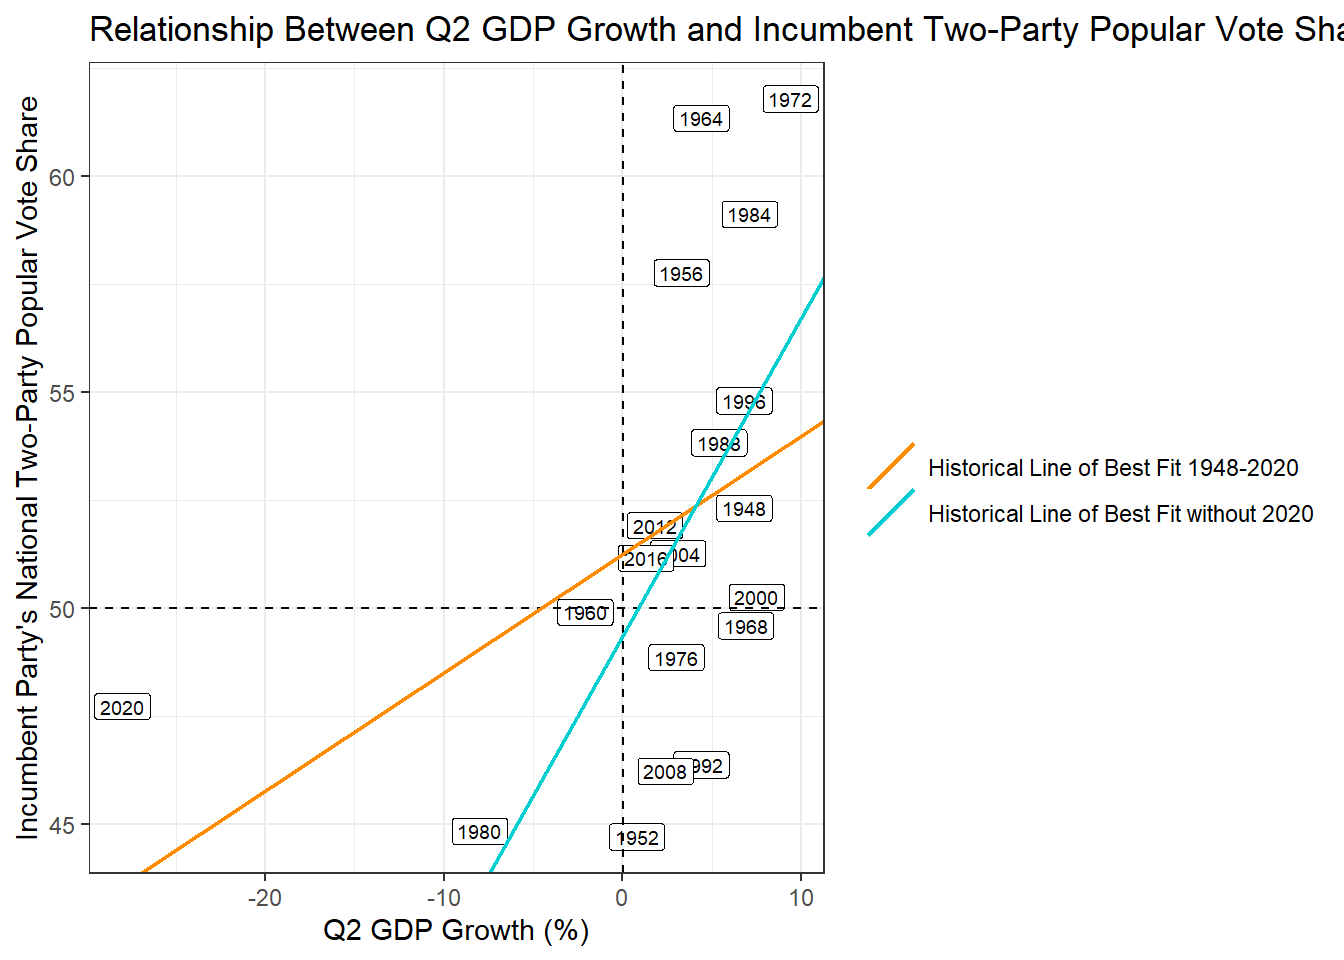
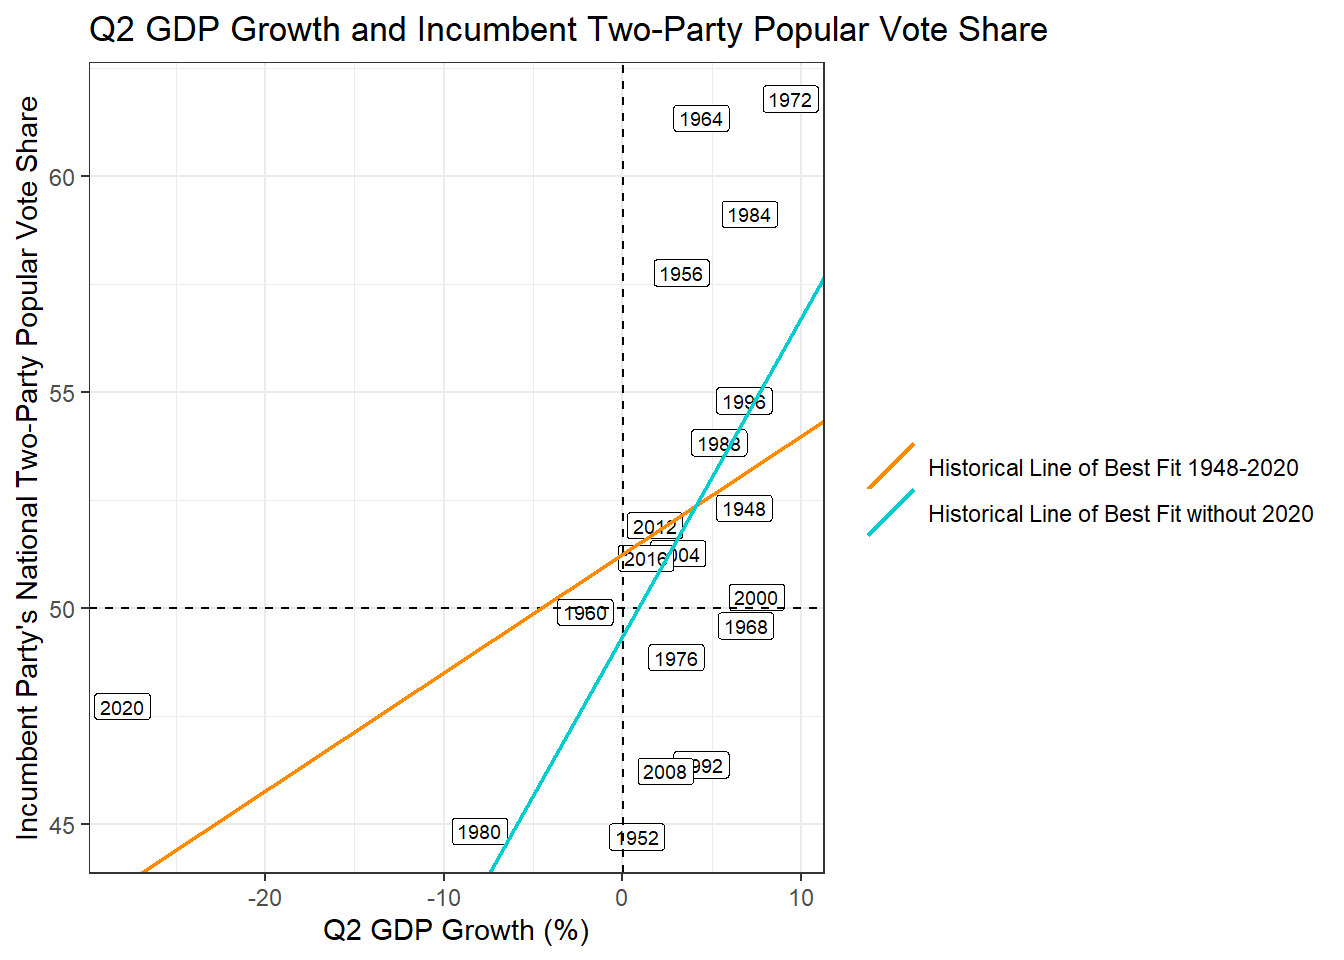
formatting changes

Changed region(s): [[0.0625, 0.0, 1.0, 0.0625]]

diff --git a/public/post/2024/09/13/blog-post-2-the-economy/index.html b/public/post/2024/09/13/blog-post-2-the-economy/index.html
@@ -83,10 +83,8 @@
 <h2 id="the-relationship-fades-in-the-21st-century">The Relationship Fades in the 21st Century</h2>
 <p>Though the above prediction model works somewhat well, I do want to take a moment to highlight a trend I saw while visually examining the economic correlations in class. The trends we see historically are not the same as the trends in the 21st century.</p>
 <img src="https://example.org/post/2024/09/13/blog-post-2-the-economy/index_files/figure-html/unnamed-chunk-1-1.png" width="672" />
-If we look at only elections that have occurred in the 21st century, the relationship between GDP growth and incumbent vote share is inconclusive. The two lines of fit represent only elections post-2000, one with and one without the previously identified outlier of 2020. With or without 2020, a one percentage point change in GDP growth results in much smaller impacts on incumbent vote share than the broader historical model. 
-<p>We can look too at the correlations between Q2 GDP growth and incumbent party vote share, as well as the lines of best fit for 21st century elections with and without 2020.</p>
-<pre><code class="language-r">fitpost2000
-</code></pre>
+<p>If we look at only elections that have occurred in the 21st century, the relationship between GDP growth and incumbent vote share is inconclusive. The two lines of fit represent only elections post-2000, one with and one without the previously identified outlier of 2020. With or without 2020, a one percentage point change in GDP growth results in much smaller impacts on incumbent vote share than the broader historical model.</p>
+<p>We can look too at the lines of best fit for 21st century elections with and without 2020.</p>
 <pre><code>## 
 ## Call:
 ## lm(formula = pv2p ~ GDP_growth_quarterly, data = incumbent_econ_post2000)
@@ -94,8 +92,6 @@ If we look at only elections that have occurred in the 21st century, the relatio
 ## Coefficients:
 ##          (Intercept)  GDP_growth_quarterly  
 ##             49.90911               0.07468
-</code></pre>
-<pre><code class="language-r">fitpostno2020
 </code></pre>
 <pre><code>## 
 ## Call:
@@ -109,55 +105,9 @@ If we look at only elections that have occurred in the 21st century, the relatio
 <p>There are some serious issues with training a model on six (five) data points, including model over-fitting, but I did want to draw attention to this trend in the data. I hypothesize that, as partisanship has become an exceedingly salient pillar of American society, the average voter may be voting along party lines more than in their own economic self-interest. I look forward to exploring that hypothesis further as I progress through this class.</p>
 <h2 id="the-choice-not-to-add-more-predictive-variables">The Choice Not to Add More Predictive Variables</h2>
 <p>One method we could consider to make improve our economic model of vote share is to add more economic predictive variables to get a better picture of the economy. However, if different economic variables are highly correlated with one another, we may run into issues of co-linearity which interferes with model performance. I tested several possible predictive economic variables for co-linearity and found that annual GDP is strongly correlated with RDPI and adjusted closing stock prices, so those measures will be excluded. On the other hand, Q2 GDP growth and Q2 RDPI growth are very uncorrelated, as are annual GDP and unemployment and Q2 GDP growth and annual GDP.</p>
-<pre><code>## [1] 0.01976475
-</code></pre>
-<pre><code>## [1] 0.9859192
-</code></pre>
-<pre><code>## [1] -0.001814525
-</code></pre>
-<pre><code>## [1] 0.9455197
-</code></pre>
-<pre><code>## [1] -0.1195312
-</code></pre>
-<pre><code>## [1] -0.05507567
-</code></pre>
-<pre><code>## [1] -0.1368118
-</code></pre>
-<pre><code>## [1] -0.2729717
-</code></pre>
 <p>Checking the correlations between incumbent vote share and Q2 RDPI, unemployment and annual GDP, I found that all correlations are weak and negative. Because of this, I decided to keep my model simple and prioritize not over-fitting by using only Q2 GDP growth.</p>
 <h2 id="economic-influence-at-the-state-level">Economic Influence at the State Level</h2>
 <p>One could hypothesize that perhaps local economic factors could influence the incumbent two party vote share within a given state. Here, I explore that idea by using Federal Reserve Economic Data from the St. Louis Federal Reserve Bank on state level unemployment.</p>
-<pre><code>## Rows: 959 Columns: 14
-## ── Column specification ────────────────────────────────────────────────────────
-## Delimiter: &quot;,&quot;
-## chr  (1): state
-## dbl (13): year, D_pv, R_pv, D_pv2p, R_pv2p, D_pv_lag1, R_pv_lag1, D_pv2p_lag...
-## 
-## ℹ Use `spec()` to retrieve the full column specification for this data.
-## ℹ Specify the column types or set `show_col_types = FALSE` to quiet this message.
-</code></pre>
-<pre><code>## Warning: One or more parsing issues, call `problems()` on your data frame for details,
-## e.g.:
-##   dat &lt;- vroom(...)
-##   problems(dat)
-</code></pre>
-<pre><code>## Rows: 29733 Columns: 3
-## ── Column specification ────────────────────────────────────────────────────────
-## Delimiter: &quot;,&quot;
-## chr  (1): state
-## dbl  (1): unemployment
-## date (1): date
-## 
-## ℹ Use `spec()` to retrieve the full column specification for this data.
-## ℹ Specify the column types or set `show_col_types = FALSE` to quiet this message.
-</code></pre>
-<pre><code>## `summarise()` has grouped output by 'state'. You can override using the
-## `.groups` argument.
-</code></pre>
-<pre><code class="language-r">#summary statistics and model checking for both national and state models
-summary(fit_state_no2020)
-</code></pre>
 <pre><code>## 
 ## Call:
 ## lm(formula = incumbent_pv2p ~ avg_unemployment + state, data = merged_state_data_no2020)
@@ -227,8 +177,6 @@ summary(fit_state_no2020)
 ##   (4 observations deleted due to missingness)
 ## Multiple R-squared:  0.01852,	Adjusted R-squared:  -0.0806 
 ## F-statistic: 0.1868 on 51 and 505 DF,  p-value: 1
-</code></pre>
-<pre><code class="language-r">summary(fit_stateandnat_no2020)
 </code></pre>
 <pre><code>## 
 ## Call:
@@ -305,9 +253,6 @@ summary(fit_state_no2020)
 <p>Considering models that factor in state economic conditions, it&rsquo;s clear that predictive economic variables still do not fit the data very well. A model based solely on state unemployment data, controlling for state, finds no statistically significant relationship between state level unemployment and incumbent party vote share and actually has a negative adjusted R squared. On the other hand, a model that factors in both state level unemployment and national Q2 GDP growth, controlling for state, finds a statistically significant relationship between incumbent vote share and state unemployment (0.01 p-value) and Q2 GDP growth (approximately 0 p-value). That being said, the adjusted R squared value shows that these variables only account for about 2.5% of the variance in incumbent vote share and has low predictive power.</p>
 <p>All things considered, none of the models examined here have high predictive power. If I had to predict the election based solely on the economic variables examined in this blog post, I would predict the national two-party popular vote based on national Q2 GDP growth. However, as this course goes on and I am given the opportunity to predict the election outcome on more than one predictive factor at once, I would be inclined to use the state-level model predicting on both national Q2 GDP growth and state unemployment.</p>
 <h2 id="predicting-2024">Predicting 2024</h2>
-<pre><code>##        1 
-## 51.58486
-</code></pre>
 <p>Using the model based solely on Q2 GDP growth, I would predict that Kamala Harris will beat Former President Trump in the two party national popular vote 51.58% to 48.42%.</p>
 <p>Using the incomplete state and national economy model, which I hope to use as a stepping stone towards later, more complex models, the election would be overwhelmingly in Former President Trump&rsquo;s favor. I cannot stress enough that this model does not have anywhere near sufficient predictive power to predict the election without more variables, and is merely an incomplete model that I wanted to map out for later reference as I add more predictive variables later in the class.</p>
 <img src="https://example.org/post/2024/09/13/blog-post-2-the-economy/index_files/figure-html/make vote margin map-1.png" width="672" />
@@ -327,12 +272,9 @@ summary(fit_state_no2020)
 <td style="text-align:left">Trump</td>
 <td style="text-align:right">401</td>
 </tr>
-<tr>
-<td style="text-align:left">Using this model, as it stands now, to predict the election, Trump would completely sweep the election, winning 401 electoral votes to Harris&rsquo; 137.</td>
-<td></td>
-</tr>
 </tbody>
 </table>
+<p>Using this model, as it stands now, to predict the election, Trump would completely sweep the election, winning 401 electoral votes to Harris&rsquo; 137.</p>
 <h2 id="conclusion">Conclusion</h2>
 <p>While the economy may be a fundamental predictor of election outcomes, it is far from the only one. Especially in recent elections, the economy may have less of an influence on the national two-party vote share. I&rsquo;m excited to continue updating my predictions to be more complex and include more data as the semester goes on.</p>
 

diff --git a/content/post/2024-09-13-blog-post-2-the-economy/index.md b/content/post/2024-09-13-blog-post-2-the-economy/index.md
@@ -79,13 +79,11 @@ Though the above prediction model works somewhat well, I do want to take a momen
 
 
 <img src="{{< blogdown/postref >}}index_files/figure-html/unnamed-chunk-1-1.png" width="672" />
+
 If we look at only elections that have occurred in the 21st century, the relationship between GDP growth and incumbent vote share is inconclusive. The two lines of fit represent only elections post-2000, one with and one without the previously identified outlier of 2020. With or without 2020, a one percentage point change in GDP growth results in much smaller impacts on incumbent vote share than the broader historical model. 
 
-We can look too at the correlations between Q2 GDP growth and incumbent party vote share, as well as the lines of best fit for 21st century elections with and without 2020. 
+We can look too at the lines of best fit for 21st century elections with and without 2020. 
 
-``` r
-fitpost2000
-```
 
 ```
 ## 
@@ -95,10 +93,6 @@ fitpost2000
 ## Coefficients:
 ##          (Intercept)  GDP_growth_quarterly  
 ##             49.90911               0.07468
-```
-
-``` r
-fitpostno2020
 ```
 
 ```
@@ -119,38 +113,8 @@ There are some serious issues with training a model on six (five) data points, i
 One method we could consider to make improve our economic model of vote share is to add more economic predictive variables to get a better picture of the economy. However, if different economic variables are highly correlated with one another, we may run into issues of co-linearity which interferes with model performance. I tested several possible predictive economic variables for co-linearity and found that annual GDP is strongly correlated with RDPI and adjusted closing stock prices, so those measures will be excluded. On the other hand, Q2 GDP growth and Q2 RDPI growth are very uncorrelated, as are annual GDP and unemployment and Q2 GDP growth and annual GDP. 
  
 
-```
-## [1] 0.01976475
-```
-
-```
-## [1] 0.9859192
-```
-
-```
-## [1] -0.001814525
-```
-
-```
-## [1] 0.9455197
-```
-
-```
-## [1] -0.1195312
-```
 
 
-```
-## [1] -0.05507567
-```
-
-```
-## [1] -0.1368118
-```
-
-```
-## [1] -0.2729717
-```
 Checking the correlations between incumbent vote share and Q2 RDPI, unemployment and annual GDP, I found that all correlations are weak and negative. Because of this, I decided to keep my model simple and prioritize not over-fitting by using only Q2 GDP growth. 
 
 ## Economic Influence at the State Level
@@ -158,49 +122,11 @@ Checking the correlations between incumbent vote share and Q2 RDPI, unemployment
 One could hypothesize that perhaps local economic factors could influence the incumbent two party vote share within a given state. Here, I explore that idea by using Federal Reserve Economic Data from the St. Louis Federal Reserve Bank on state level unemployment. 
 
 
-```
-## Rows: 959 Columns: 14
-## ── Column specification ────────────────────────────────────────────────────────
-## Delimiter: ","
-## chr  (1): state
-## dbl (13): year, D_pv, R_pv, D_pv2p, R_pv2p, D_pv_lag1, R_pv_lag1, D_pv2p_lag...
-## 
-## ℹ Use `spec()` to retrieve the full column specification for this data.
-## ℹ Specify the column types or set `show_col_types = FALSE` to quiet this message.
-```
-
-```
-## Warning: One or more parsing issues, call `problems()` on your data frame for details,
-## e.g.:
-##   dat <- vroom(...)
-##   problems(dat)
-```
-
-```
-## Rows: 29733 Columns: 3
-## ── Column specification ────────────────────────────────────────────────────────
-## Delimiter: ","
-## chr  (1): state
-## dbl  (1): unemployment
-## date (1): date
-## 
-## ℹ Use `spec()` to retrieve the full column specification for this data.
-## ℹ Specify the column types or set `show_col_types = FALSE` to quiet this message.
-```
-
-
-```
-## `summarise()` has grouped output by 'state'. You can override using the
-## `.groups` argument.
-```
 
 
 
 
-``` r
-#summary statistics and model checking for both national and state models
-summary(fit_state_no2020)
-```
+
 
 ```
 ## 
@@ -272,10 +198,6 @@ summary(fit_state_no2020)
 ##   (4 observations deleted due to missingness)
 ## Multiple R-squared:  0.01852,	Adjusted R-squared:  -0.0806 
 ## F-statistic: 0.1868 on 51 and 505 DF,  p-value: 1
-```
-
-``` r
-summary(fit_stateandnat_no2020)
 ```
 
 ```
@@ -359,10 +281,6 @@ All things considered, none of the models examined here have high predictive pow
 ## Predicting 2024
 
 
-```
-##        1 
-## 51.58486
-```
 Using the model based solely on Q2 GDP growth, I would predict that Kamala Harris will beat Former President Trump in the two party national popular vote 51.58% to 48.42%. 
 
 Using the incomplete state and national economy model, which I hope to use as a stepping stone towards later, more complex models, the election would be overwhelmingly in Former President Trump's favor. I cannot stress enough that this model does not have anywhere near sufficient predictive power to predict the election without more variables, and is merely an incomplete model that I wanted to map out for later reference as I add more predictive variables later in the class. 
@@ -377,7 +295,9 @@ Using the incomplete state and national economy model, which I hope to use as a 
 |:---------|-----------------------:|
 |Harris    |                     137|
 |Trump     |                     401|
+
 Using this model, as it stands now, to predict the election, Trump would completely sweep the election, winning 401 electoral votes to Harris' 137. 
+
 
 ## Conclusion
 
